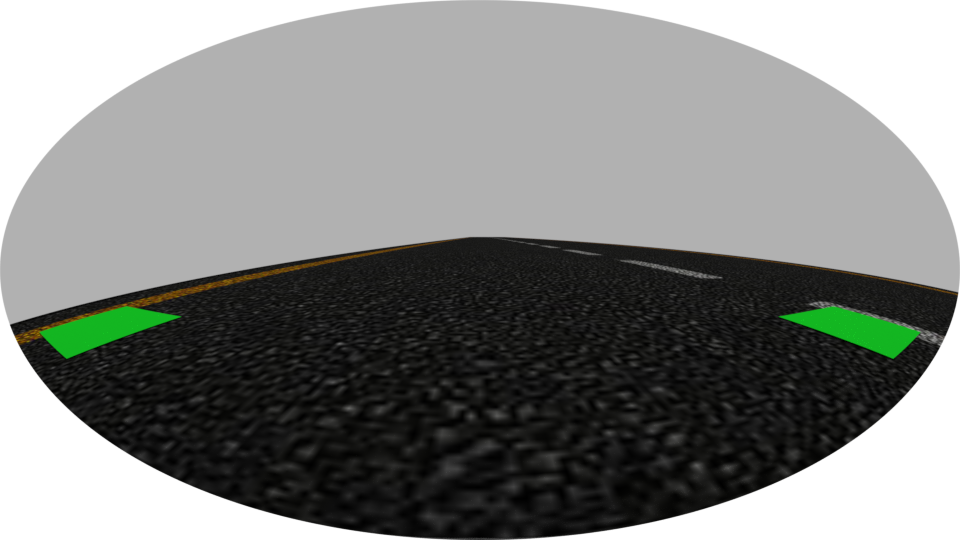
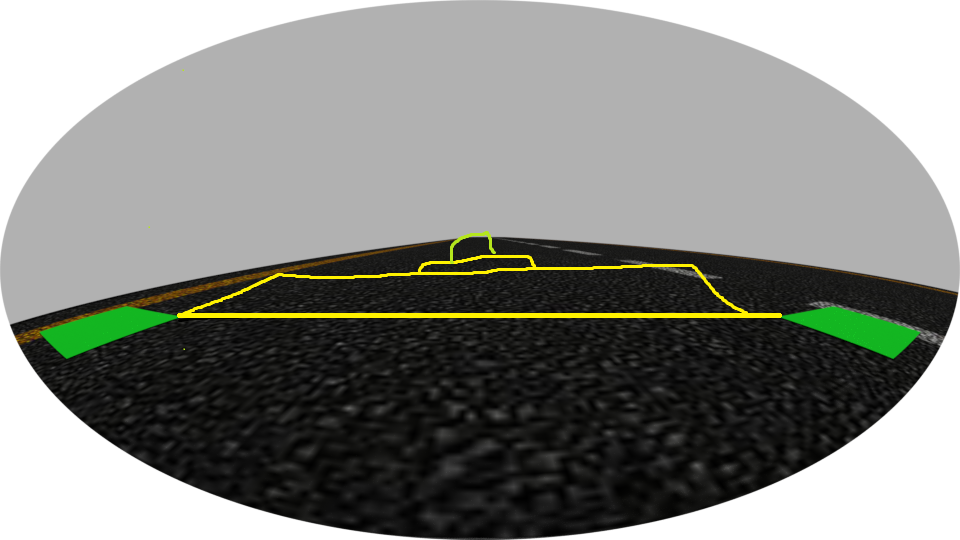
Ejemblo birds eye view

Changed region(s): [[0.1875, 0.5037, 0.8125, 0.5926], [0.25, 0.4148, 0.7188, 0.5333]]

diff --git a/pruebaVistaPajaro.m b/pruebaVistaPajaro.m
@@ -1,0 +1,54 @@
+%% Transform Road Image to Bird's-Eye-View Image
+%
+%%
+% Define the camera intrinics.
+clear all;close all;
+focalLength = [210 210];
+principalPoint = [480 360];
+imageSize = [540 960];
+%%
+% Create an object containing the camera's intrinsics.
+camIntrinsics = cameraIntrinsics(focalLength,principalPoint,imageSize);
+%%
+% Set the height of the camera to about 2 meters above the ground. Set the
+% pitch to 14 degrees toward the ground.
+height = 0.64;
+pitch = 12;
+%%
+% Create an object containing the camera's configuration.
+sensor = monoCamera(camIntrinsics,height,'Pitch',pitch);
+%%
+% Define bird's-eye-view transformation parameters:
+% Distance ahead of sensor (in meters). Look 6 meters to the right 
+% and 6 meters to the left. Look 3 meters ahead of the sensor.
+distAheadOfSensor = 10;
+spaceToOneSide = 5;
+bottomOffset = 0.7;
+%%
+% Set the |outView| argument.
+outView = [bottomOffset,distAheadOfSensor,-spaceToOneSide,spaceToOneSide];
+%%
+% Set the output image width in pixels. Set to NaN to compute dimension
+% automatically.
+outImageSize = [NaN,800];
+%%
+% Create an object to use for birds eye view transforms.
+birdsEye = birdsEyeView(sensor,outView,outImageSize);
+%%
+% Load an image that was captured by the sensor.
+I = imread('Adelante1.png')
+figure
+imshow(I);impixelinfo;
+title('Original image')
+%%
+% Transform the input image to bird's-eye-view image.
+B = transformImage(birdsEye,I);
+%%
+% Place a 20-meter marker ahead of the sensor in the bird's eye view.
+imagePoint = vehicleToImage(birdsEye,[20,0]);
+annotatedB = insertMarker(B,imagePoint - 5);
+annotatedB = insertText(annotatedB,imagePoint,'20 meters');
+
+figure
+imshow(annotatedB)
+title('Bird''s eye view')

diff --git a/Vista.m b/Vista.m
@@ -52,7 +52,7 @@ axis off;
 imshow(a);
 
 axes(handles.axes2);
-b=imread('Adelante.png');
+b=imread('Adelante1.png');
 axis off;
 imshow(b);
 
@@ -66,7 +66,10 @@ d=imread('Atras.png');
 axis off;
 imshow(d);
 
-set(handles.axes5,'visible','off');
+axes(handles.axes5);
+e=imread('Pajaro.png');
+axis off;
+imshow(e);
 % Choose default command line output for vista
 handles.output = hObject;
 % Update handles structure
